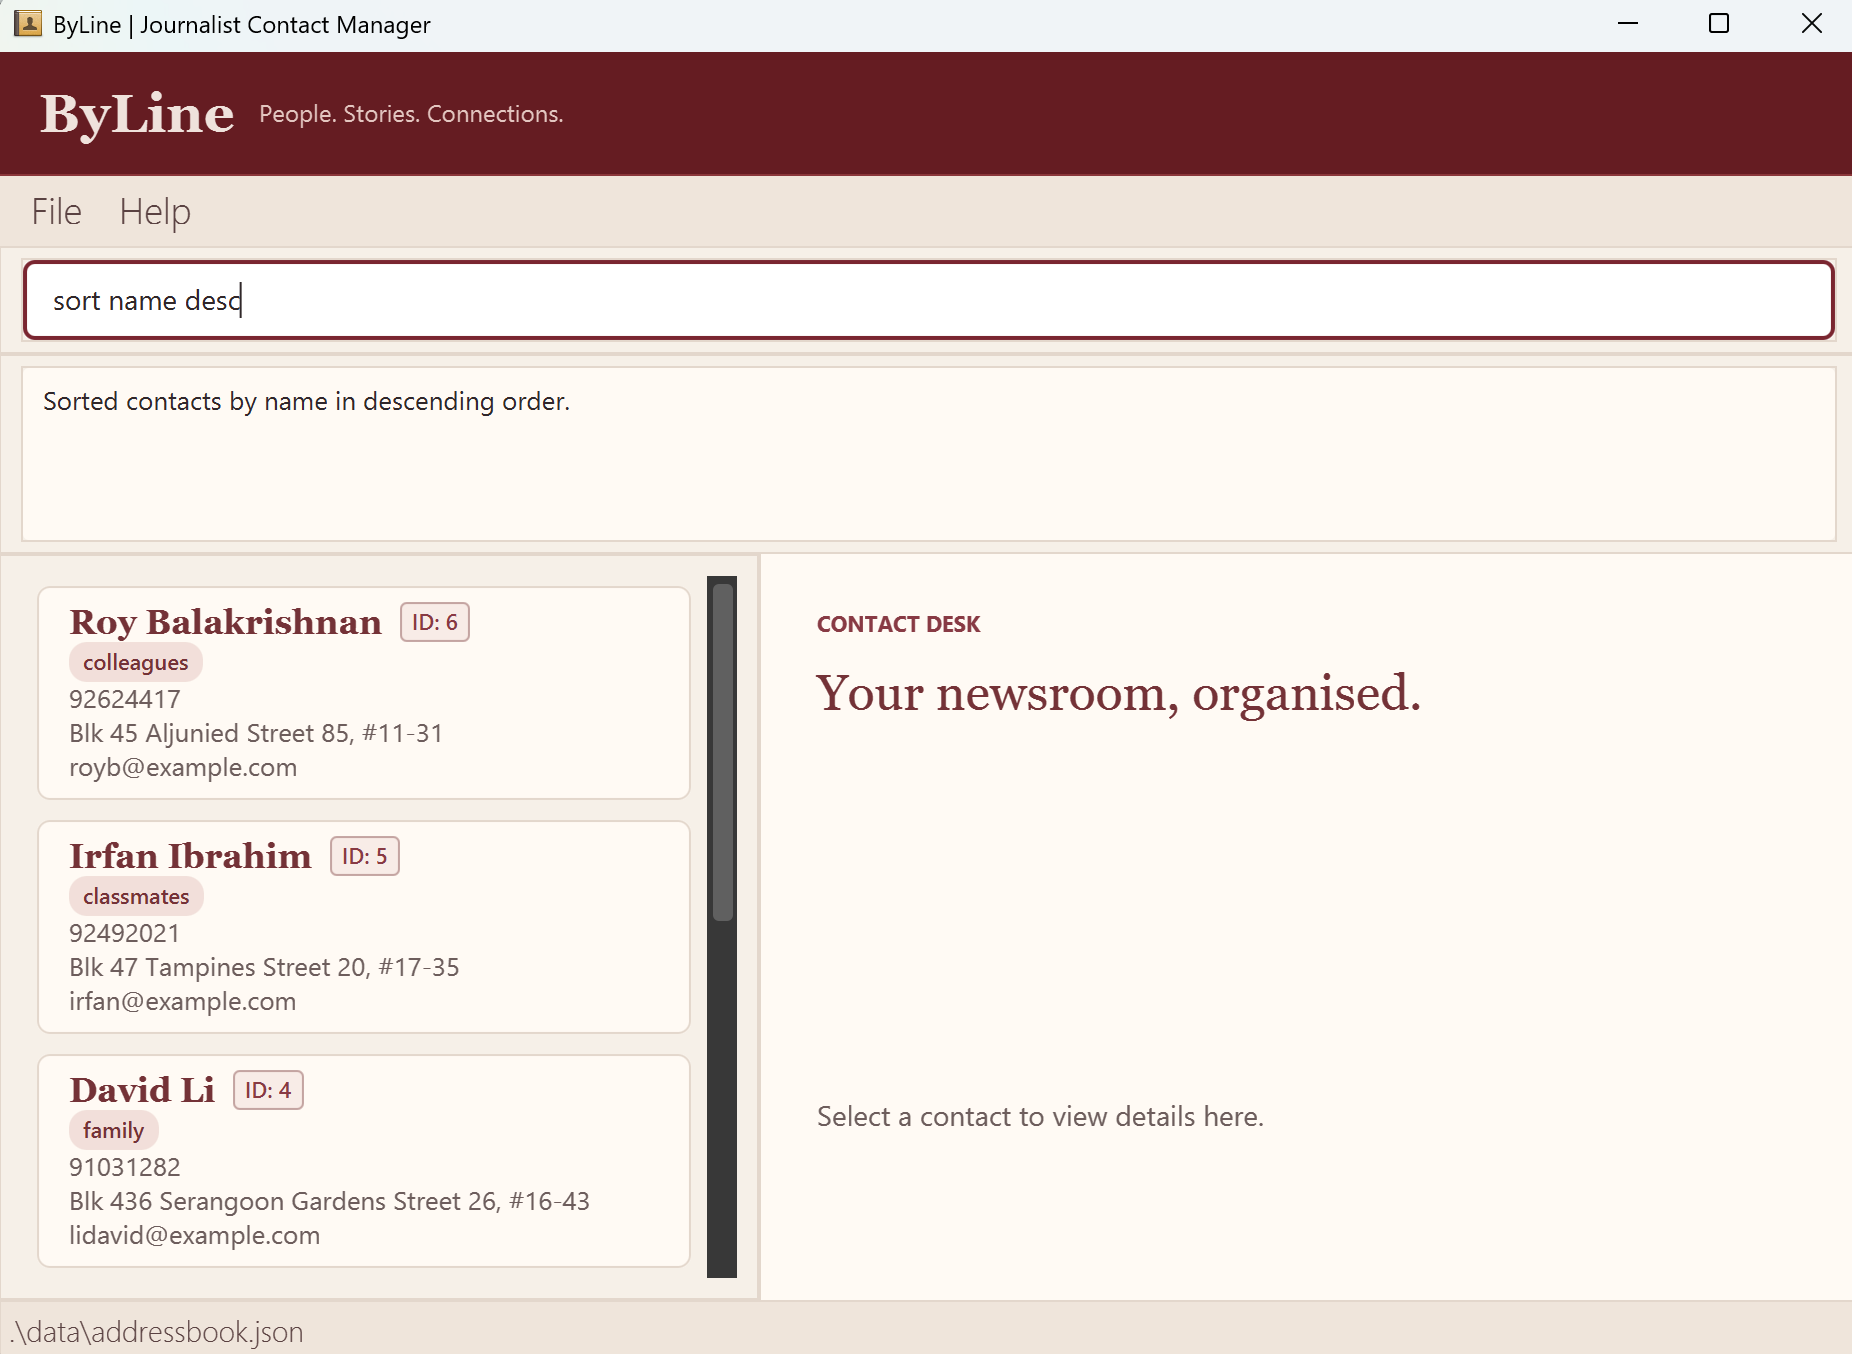
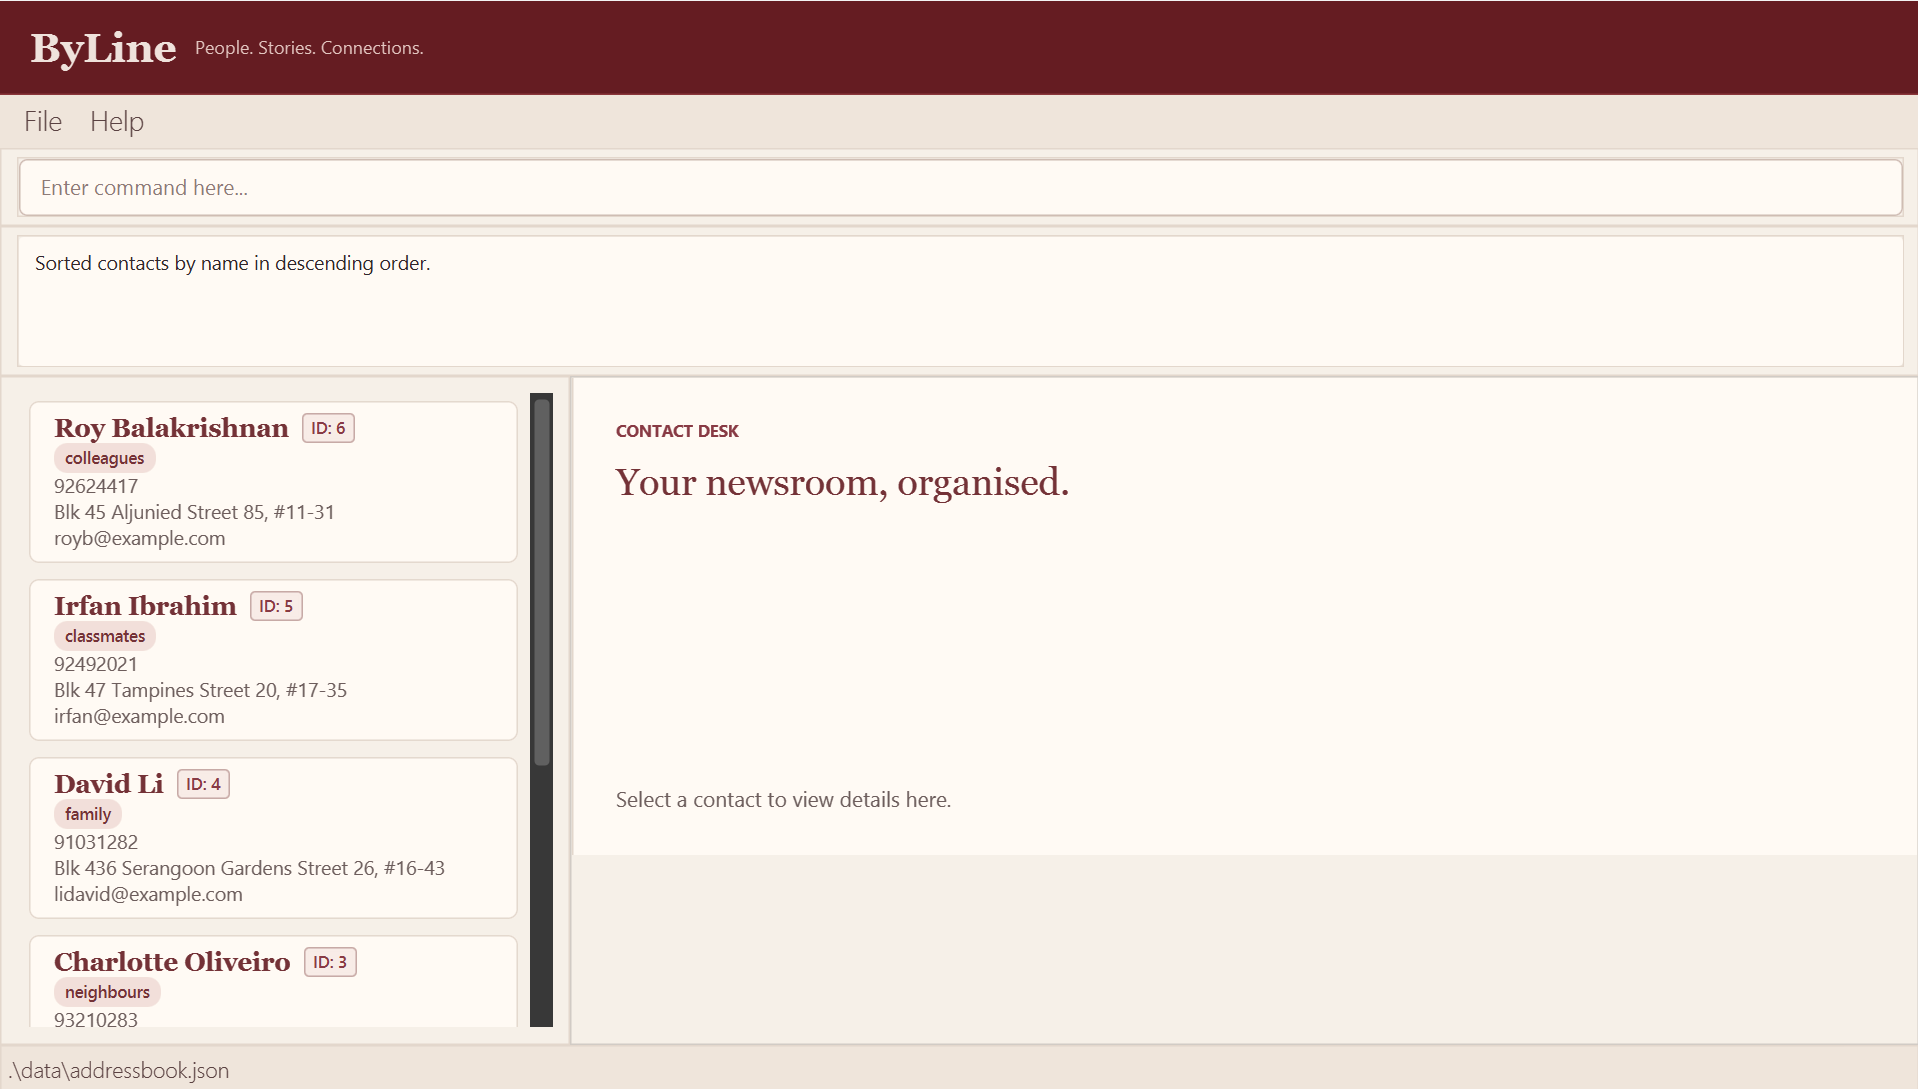
Docs: Replace outdated UG screenshots and add missing ones

diff --git a/docs/UserGuide.md b/docs/UserGuide.md
@@ -91,11 +91,13 @@ Two contacts can't have the same name **and** phone number. ByLine ignores upper
 
 Click a contact in the list to see all of its details, including whether it is archived, in the panel on the right. Until you select a contact, the panel shows "Select a contact to view details here."
 
+![The panel on the right showing Bernice Yu's details](images/contactDetails.png)
+
 ### Viewing help: `help`
 
 Shows the command guide in the panel on the right.
 
-![help message](images/helpMessage.png)
+![The command guide shown in the panel on the right](images/helpPanel.png)
 
 Format: `help`
 
@@ -225,7 +227,7 @@ Format: `find [SUBSTRING] [n/NAME] [p/PHONE_NUMBER] [e/EMAIL] [a/ADDRESS] [t/TAG
 Examples:
 
 * `find oak` finds contacts with `oak` anywhere in their details, such as the name `Prof Oak` or the address `Oak Street`.
-* `find n/Al` finds contacts whose names contain `Al`.
+* `find n/Al` finds contacts whose names contain `Al`, such as `Alex Yeoh` and `Roy Balakrishnan`.
   ![Results for 'find n/Al'](images/findNameAl.png)
 * `find p/2345` finds contacts whose phone numbers contain `2345`.
 * `find n/Al e/example.com` finds contacts whose names contain `Al` and whose email addresses contain `example.com`.
@@ -277,9 +279,7 @@ On success, ByLine shows, for example, `Sorted contacts by name in descending or
 
 ![Result of sorting contacts by name in descending order](images/sortNameDescResult.png)
 
-If the field or order is not one of the above, or there are extra words, ByLine shows an error and the order does not change:
-
-![Result of entering an invalid sort order](images/sortInvalidOrderResult.png)
+If the field or order is not one of the above, or there are extra words, ByLine shows an error and the order does not change. For example, `sort name upward` shows `Invalid sort order. ORDER must be asc or desc.`
 
 Examples:
 * `sort name` sorts by name, A to Z.
@@ -301,6 +301,9 @@ Format: `archive ID`
 
 Examples:
 * `archive 4` archives the contact with ID 4.
+* `archive 3`, then `list all`, shows every contact. The archived contact is marked `[Archived]`:
+
+  ![Charlotte Oliveiro marked as archived in the full list](images/archivedContact.png)
 
 ### Restoring an archived contact: `restore`
 
@@ -379,7 +382,7 @@ Format: `export PATH`
 * Every contact is saved, whatever the list currently shows. Settings such as the window size are not saved.
 
 Examples:
-* `export C:/My Contacts/October backup` saves all contacts to `C:/My Contacts/October backup.json`.
+* `export C:/My Contacts/October backup` saves all contacts to `C:/My Contacts/October backup.json` and shows `Exported all contacts to C:\My Contacts\October backup.json`.
 * `export backups/october` saves to `october.json` in the `backups` folder inside the folder you started ByLine from.
 
 ### Loading a backup: `load`
@@ -397,7 +400,9 @@ Format: `load PATH`
 * You can reverse a `load` with `undo`.
 
 Examples:
-* `load C:/My Contacts/October backup` replaces your contacts with those in `C:/My Contacts/October backup.json`.
+* `load C:/My Contacts/October backup` replaces your contacts with those in `C:/My Contacts/October backup.json`. The result message shows where the copy of your previous contacts was saved:
+
+  ![Result of loading a backup, showing where the previous contacts were saved](images/loadResult.png)
 
 ### Exiting the program: `exit`
 
